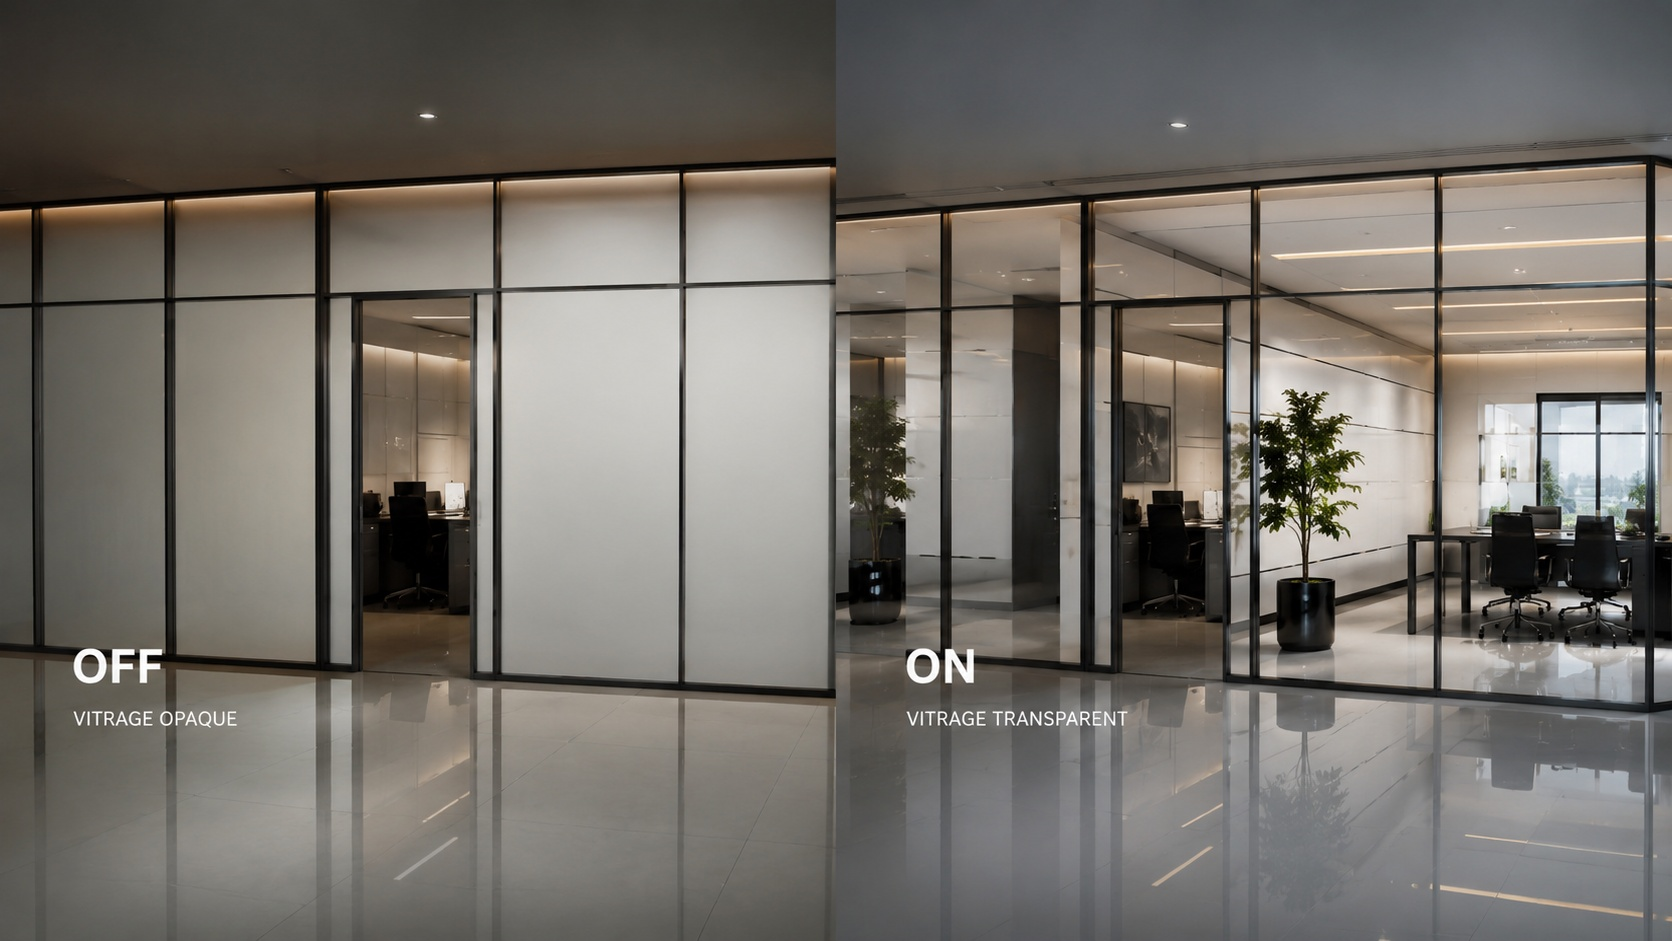
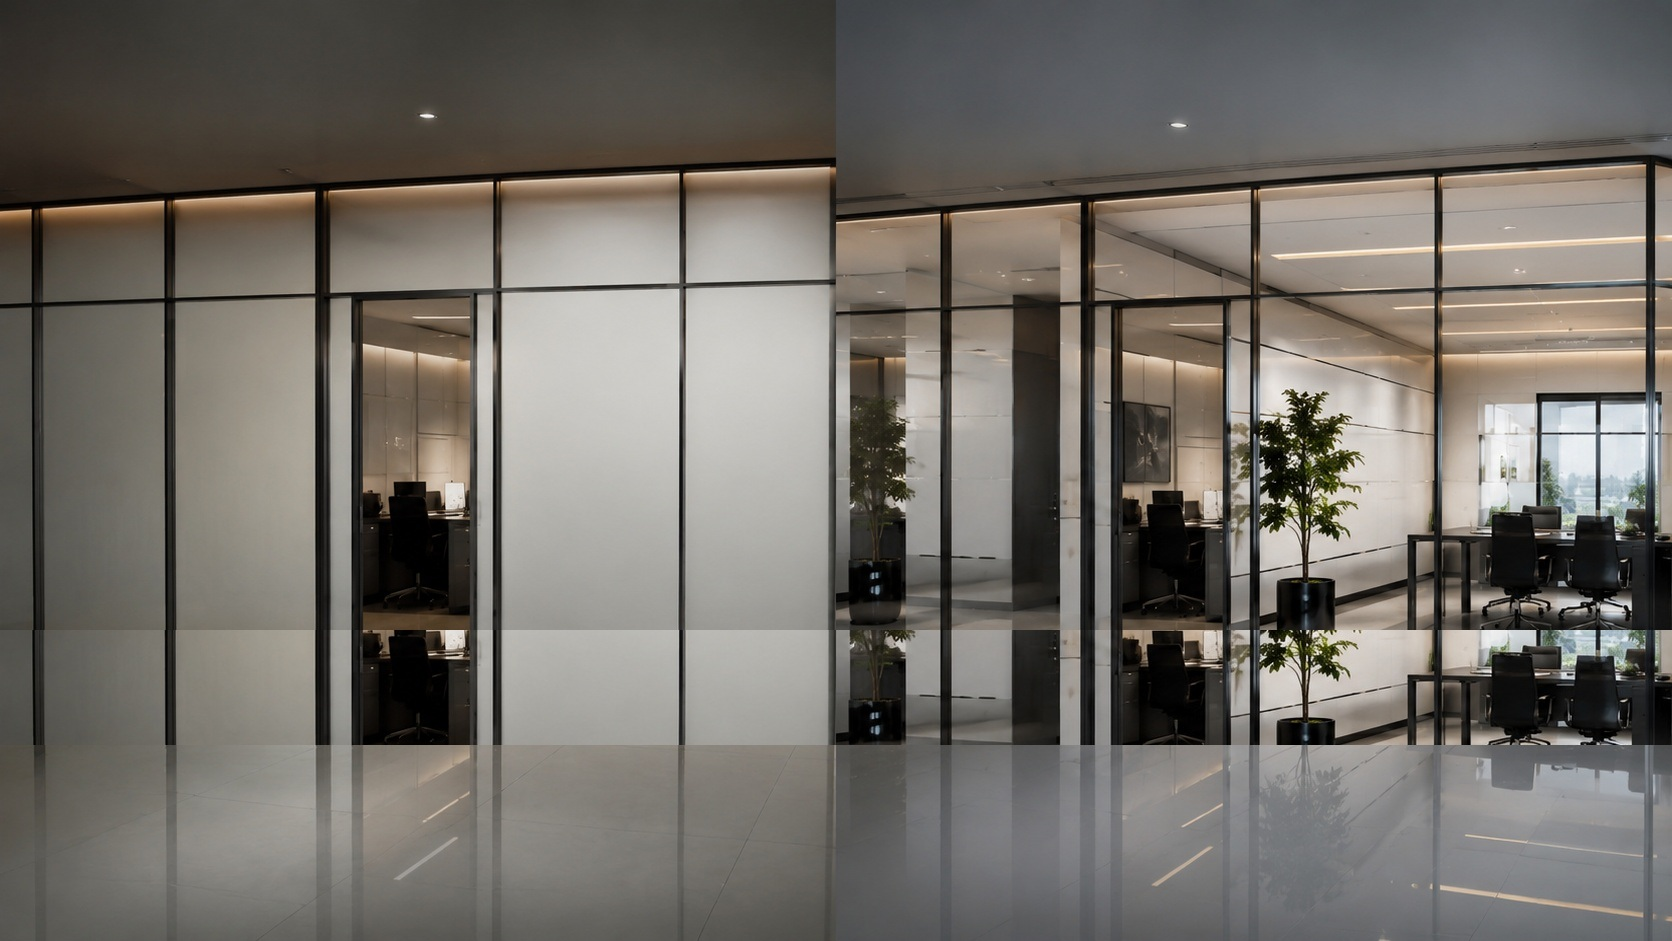
Nettoie le texte incrusté à la source, plus de masque
Efface le texte OFF/ON directement sur assets/img/espace-travail.jpg
par clonage (même technique déjà validée : zone de sol clonée
au-dessus du texte, aucune couture visible). Un seul fichier, aucune
duplication, aucun cache CSS par-dessus.

- Carte accueil (slider) : retire les .sl-mask devenus inutiles,
  garde le label CSS calibré (ON/OFF bien positionné).
- Carte realisations.html (image statique) : ajoute un label OFF/ON
  simple en overlay (gauche/droite), pour ne pas perdre l'indication
  après le nettoyage de l'image.

Changed region(s): [[0.0, 0.6472, 1.0, 0.8013]]

diff --git a/particulier/realisations.html b/particulier/realisations.html
@@ -26,6 +26,12 @@
   .case-meta div{font-size:12px;color:var(--muted-lt)}
   .case-meta b{display:block;color:var(--ink);font-family:'Playfair Display',Georgia,serif;font-size:17px;font-weight:500}
   .case-photo{width:100%;height:auto;display:block;border-radius:var(--radius);border:1px solid rgba(12,22,32,0.08)}
+  .case-photo-wrap{position:relative}
+  .case-photo-tag{position:absolute;bottom:6%;color:#fff;text-shadow:0 2px 10px rgba(0,0,0,0.5);pointer-events:none}
+  .case-photo-tag b{display:block;font-family:'Plus Jakarta Sans',sans-serif;font-weight:700;line-height:1;font-size:24px;margin-bottom:9px}
+  .case-photo-tag span{display:block;font-size:11px;text-transform:uppercase;letter-spacing:.13em;font-weight:600;opacity:.9}
+  .case-photo-tag-l{left:5%}
+  .case-photo-tag-r{right:5%;text-align:right}
   .case-video{position:relative;width:100%;aspect-ratio:3/4;border-radius:var(--radius);overflow:hidden;background:var(--ink)}
   .case-video.is-landscape{aspect-ratio:1042/654}
   .case-video video{position:absolute;inset:0;width:100%;height:100%;object-fit:cover}
@@ -108,7 +114,11 @@
     </div>
 
     <div class="case">
-      <img class="case-photo" src="/assets/img/espace-travail.jpg" alt="Espace de travail — vitrage opaque (OFF) et transparent (ON)" loading="lazy">
+      <div class="case-photo-wrap">
+        <img class="case-photo" src="/assets/img/espace-travail.jpg" alt="Espace de travail — vitrage opaque (OFF) et transparent (ON)" loading="lazy">
+        <div class="case-photo-tag case-photo-tag-l"><b>OFF</b><span>Vitrage opaque</span></div>
+        <div class="case-photo-tag case-photo-tag-r"><b>ON</b><span>Vitrage transparent</span></div>
+      </div>
       <div>
         <span class="case-tag">Bureaux &amp; coworking</span>
         <h2>Espace de travail — confidentialité réunion à la demande</h2>

diff --git a/particulier/index.html b/particulier/index.html
@@ -287,11 +287,9 @@
       <div class="rea-card">
         <div class="slider-wrap is-landscape">
           <div class="sl-before" style="background-image:url(/assets/img/espace-travail.jpg);background-position:right top">
-            <div class="sl-mask"></div>
             <div class="sl-state sl-state-l"><b>ON</b><span>Vitrage transparent</span></div>
           </div>
           <div class="sl-after" style="background-image:url(/assets/img/espace-travail.jpg);background-position:left top">
-            <div class="sl-mask"></div>
             <div class="sl-state sl-state-r"><b>OFF</b><span>Vitrage opaque</span></div>
           </div>
           <div class="sl-line"></div>

diff --git a/assets/css/style.css b/assets/css/style.css
@@ -176,7 +176,6 @@ section{padding:96px 56px}
 .sl-state span{display:block;text-transform:uppercase;font-weight:600;opacity:.9;letter-spacing:.13em;font-size:7px}
 .sl-state-l{left:5%}
 .sl-state-r{left:5%}
-.sl-mask{position:absolute;left:0%;bottom:19%;width:42%;height:20%;background:radial-gradient(ellipse at center,rgb(96,92,84) 0%,rgb(96,92,84) 55%,rgba(96,92,84,0) 100%)}
 
 /* ---------- Forms ---------- */
 .site-form{position:relative;text-align:left;background:#fff;border:1px solid rgba(12,22,32,0.08);border-radius:var(--radius);padding:44px 40px 40px;box-shadow:var(--shadow-lg);overflow:hidden}